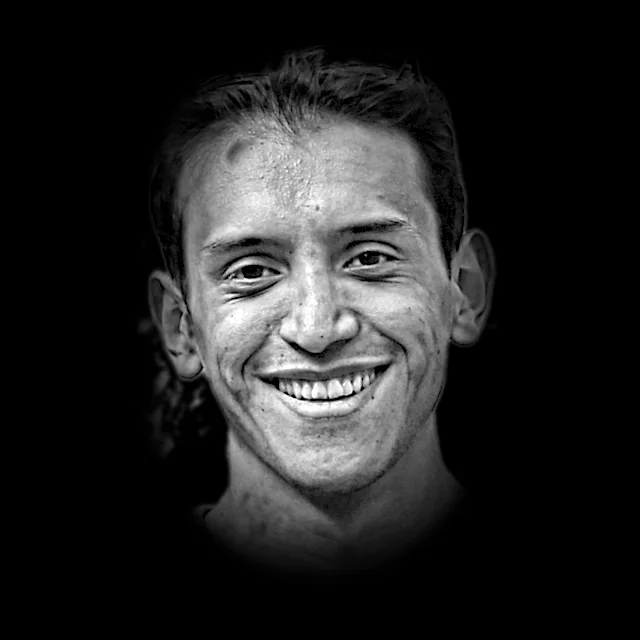
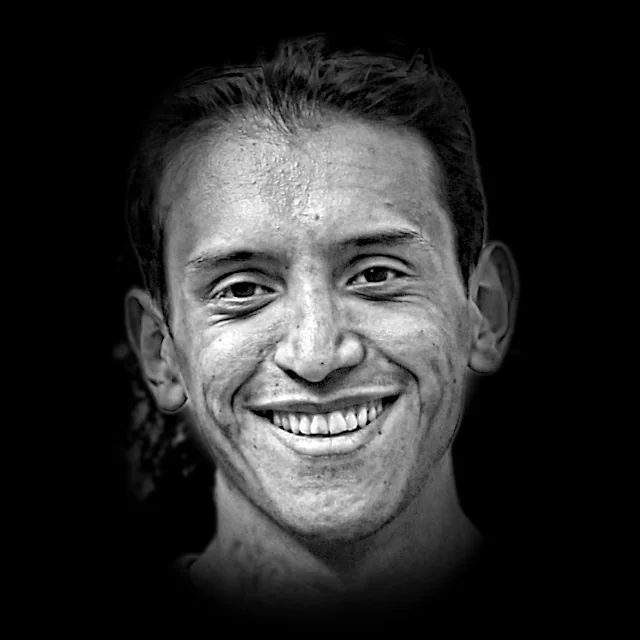
fix(about): crop the about portrait tighter so the face reads on phones
On a phone the 350px stage left the face only about 90 cells wide, so the
eyes shrank to dark sockets. Crop the photo tighter (the face now fills
about three quarters of the frame, still with the whole chin and a short
stretch of neck) and widen the always-on face core to cover the forehead
highlight. The prepare script keeps the home target byte-identical.

Changed region(s): [[0.1875, 0.0625, 0.8125, 0.9375], [0.2188, 0.75, 0.25, 0.7812]]

diff --git a/scripts/prepare-portrait.ts b/scripts/prepare-portrait.ts
@@ -66,16 +66,16 @@ const TARGETS: Record<string, Target> = {
   // the foliage is yellow, so separate them by hue.
   about: {
     output: "assets/portrait/portrait-about.webp",
-    crop: { left: 0.2775, top: 0.2722, size: 0.402 },
-    fade: { start: 0.8, end: 0.95 },
-    oval: { cx: 0.5, cy: 0.47, rx: 0.34, ry: 0.5 },
+    crop: { left: 0.3015, top: 0.2791, size: 0.354 },
+    fade: { start: 0.84, end: 1 },
+    oval: { cx: 0.5, cy: 0.504, rx: 0.386, ry: 0.568 },
     levels: "auto",
     // Darker skin and black hair would sink into the black page otherwise.
     gamma: 0.62,
     matte: {
       kind: "skin",
-      core: { cx: 0.5, cy: 0.43, rx: 0.22, ry: 0.29 },
-      prior: { cx: 0.5, cy: 0.47, rx: 0.32, ry: 0.46 },
+      core: { cx: 0.5, cy: 0.45, rx: 0.28, ry: 0.36 },
+      prior: { cx: 0.5, cy: 0.504, rx: 0.364, ry: 0.523 },
     },
   },
 };
